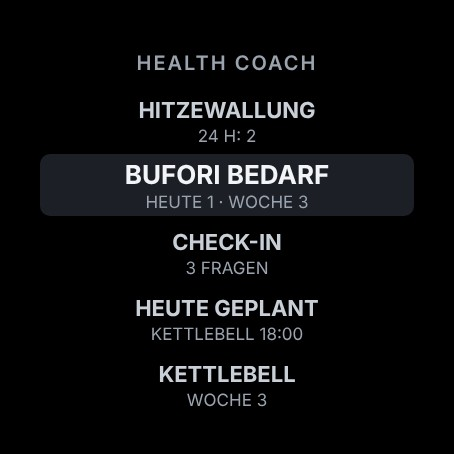
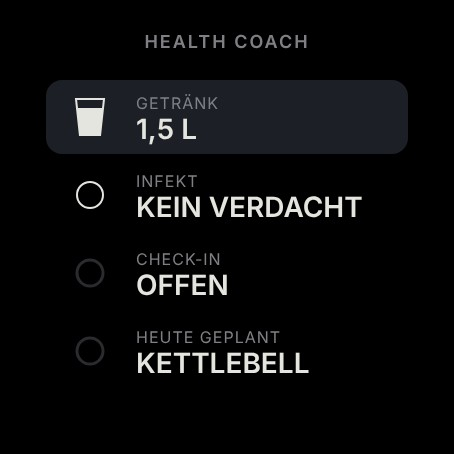
[DA][OF] Store-Bilder, Beschreibung, Übergabe und Aufgaben für die überarbeitete Uhr-App
Claude-Session: https://claude.ai/code/session_017zWr1WikVp35JDLSBfpPWt

diff --git a/watchface/tools/store_bilder.js b/watchface/tools/store_bilder.js
@@ -52,7 +52,7 @@ async function faceShots(page) {
   }
 }
 
-// Uhr-App: Glance in der Glance-Liste und das Menü, nachgezeichnet nach watch/source (GlanceView.mc, MainMenu.mc)
+// Uhr-App: Glance in der Glance-Liste und das Menü, nachgezeichnet nach watch/source (GlanceView.mc, MainView.mc, Icons.mc)
 function appHtml(which) {
   const seg = `
   function seg7(g, str, x, top, w, h, t, gap, on, off) {
@@ -87,25 +87,52 @@ function appHtml(which) {
     <script>${seg}
       seg7(document.getElementById("dg"), "18", 66, 162, 44, 72, 8, 10, "#E4E5DF", "#2A2B2F");
     </script>`;
-  const items = [["HITZEWALLUNG", "24 H: 2"], ["BUFORI BEDARF", "HEUTE 1 · WOCHE 3"], ["CHECK-IN", "3 FRAGEN"], ["HEUTE GEPLANT", "KETTLEBELL 18:00"], ["KETTLEBELL", "WOCHE 3"]];
+  // Zeichen wie in watch/source/Icons.mc: Glas mit Füllstand, Kreis, Ring, Tasse
+  const W = "#E4E5DF", M = "#7E8085", G = "#2A2B2F";
+  const glass = (cx, top, w, h, p) => {
+    const inset = w * 0.14, y = top + h * (1 - p), t = 1 - p;
+    const ht = w / 2 - inset * t, hb = w / 2 - inset;
+    const fill = p > 0 ? `<polygon points="${cx - ht},${y} ${cx + ht},${y} ${cx + hb},${top + h} ${cx - hb},${top + h}" fill="${W}"/>` : "";
+    return fill + `<polygon points="${cx - w / 2},${top} ${cx + w / 2},${top} ${cx + w / 2 - inset},${top + h} ${cx - w / 2 + inset},${top + h}" fill="none" stroke="${W}" stroke-width="2"/>`;
+  };
+  const ring = (cx, cy, r, p) => `<circle cx="${cx}" cy="${cy}" r="${r}" fill="none" stroke="${G}" stroke-width="3"/>` +
+    (p > 0 ? `<circle cx="${cx}" cy="${cy}" r="${r}" fill="none" stroke="${W}" stroke-width="3" stroke-dasharray="${2 * Math.PI * r * p} 999" transform="rotate(-90 ${cx} ${cy})"/>` : "");
+  const cup = (x, y, sz, on) => `<rect x="${x}" y="${y}" width="${sz}" height="${sz * 0.8}" fill="${on ? W : "none"}" stroke="${W}" stroke-width="2"/><rect x="${x + sz}" y="${y + sz * 0.15}" width="${sz * 0.28}" height="${sz * 0.4}" fill="none" stroke="${W}" stroke-width="2"/>`;
+  const F = 'font-family="Inter, Arial, sans-serif"';
+  const rows = [
+    ["GETRÄNK", "1,5 L", (cy) => glass(90, cy - 18, 28, 36, 0.75)],
+    ["INFEKT", "KEIN VERDACHT", (cy) => `<circle cx="90" cy="${cy}" r="13" fill="none" stroke="${W}" stroke-width="2"/>`],
+    ["CHECK-IN", "OFFEN", (cy) => ring(90, cy, 13, 0)],
+    ["HEUTE GEPLANT", "KETTLEBELL", (cy) => ring(90, cy, 13, 0)]
+  ];
   const menu = `
     <svg id="shot" viewBox="0 0 454 454" width="454" height="454">
       <circle cx="227" cy="227" r="227" fill="#000"/>
-      <text x="227" y="70" fill="#9AA3AE" font-family="Inter, Arial, sans-serif" font-weight="600" font-size="20" text-anchor="middle" letter-spacing="2">HEALTH COACH</text>
-      ${items.map((it, i) => {
-        const y = 118 + i * 66, sel = i === 1;
-        return `${sel ? `<rect x="40" y="${y - 30}" width="374" height="62" rx="10" fill="#1C2026"/>` : ""}
-          <text x="227" y="${y}" fill="${sel ? "#F2F4F7" : "#C9CFD6"}" font-family="Inter, Arial, sans-serif" font-weight="700" font-size="${sel ? 26 : 22}" text-anchor="middle">${it[0]}</text>
-          <text x="227" y="${y + 24}" fill="#9AA3AE" font-family="Inter, Arial, sans-serif" font-size="17" text-anchor="middle">${it[1]}</text>`;
+      <text x="227" y="48" fill="${M}" ${F} font-weight="600" font-size="18" text-anchor="middle" letter-spacing="2">HEALTH COACH</text>
+      ${rows.map((r, i) => {
+        const top = 78 + i * 78, cy = top + 39, sel = i === 0;
+        return `${sel ? `<rect x="46" y="${top + 2}" width="362" height="74" rx="16" fill="#1C2026"/>` : ""}${r[2](cy)}
+          <text x="136" y="${cy - 8}" fill="${M}" ${F} font-size="16" letter-spacing="1">${r[0]}</text>
+          <text x="136" y="${cy + 22}" fill="${W}" ${F} font-weight="600" font-size="28">${r[1]}</text>`;
       }).join("")}
+    </svg>`;
+  const drink = `
+    <svg id="shot" viewBox="0 0 454 454" width="454" height="454">
+      <circle cx="227" cy="227" r="227" fill="#000"/>
+      ${glass(227, 54, 90, 130, 0.75)}
+      <text x="227" y="262" fill="${W}" ${F} font-weight="600" font-size="44" text-anchor="middle">1,5 L</text>
+      <text x="227" y="296" fill="${M}" ${F} font-size="17" text-anchor="middle" letter-spacing="1">VON 2 L</text>
+      <rect x="154" y="320" width="146" height="1" fill="${G}"/>
+      ${cup(163, 340, 30, true)}${cup(227 - 15, 340, 30, true)}${cup(257, 340, 30, false)}
+      <text x="227" y="398" fill="${M}" ${F} font-size="17" text-anchor="middle" letter-spacing="1">KAFFEE 2</text>
     </svg>`;
   return `<!doctype html><meta charset="utf-8"><style>
     @font-face{font-family:"Share Tech Mono";src:url("${FONT}")}
-    body{margin:0;background:#000}</style>${which === "glance" ? glance : menu}`;
+    body{margin:0;background:#000}</style>${which === "glance" ? glance : which === "drink" ? drink : menu}`;
 }
 
 async function appShots(page) {
-  for (const [which, file] of [["glance", "1-glance.jpg"], ["menu", "2-menue.jpg"]]) {
+  for (const [which, file] of [["glance", "1-glance.jpg"], ["menu", "2-menue.jpg"], ["drink", "3-getraenk.jpg"]]) {
     await page.setContent(appHtml(which));
     await page.evaluate(() => document.fonts.load('20px "Share Tech Mono"'));
     await page.waitForTimeout(200);

diff --git a/docs/uebergabe/daten.md b/docs/uebergabe/daten.md
@@ -1,7 +1,15 @@
 # Übergabe · Daten (DA)
 Belegt: frei
-Zuletzt aktualisiert: 2026-11-26 · Sitzung: https://claude.ai/code/session_017zWr1VfNKhpHP9qnQvGq9p
+Zuletzt aktualisiert: 2026-11-28 · Sitzung: https://claude.ai/code/session_017zWr1WikVp35JDLSBfpPWt
 
+
+## Uhr-App überarbeitet, Getränke loggen (PR #198, 28.11., Freigabe der Nutzerin)
+- Migration `20261203090000_getraenke`: Tabelle `drink_log` (at, day, kind wasser/kaffee/tee/alkohol, amount, source), RLS. Trigger setzt die Tages-Haken `koffein_nach_14` (Kaffee ab 14:00 Berlin) und `alkohol` in `diary_entries.influences`, nimmt sie nur bei Ändern oder Löschen zurück. „Wenig getrunken“ bleibt Handeintrag. `push_subscriptions.drink_push`, `drink_sent_at`.
+- `watch`: Aktion `drink` (kind, amount), `today` liefert `infection` und `drinks` (Wasser, Ziel 2 L / 2,5 L an Trainingstagen aus `settings.data.waterGoal`/`waterGoalTraining`, Kaffee, Tee, Alkohol, `coffeeAt`, `last`). Aktionen `flash` und `intake` bleiben für ältere Uhr-Versionen.
+- `push` (`due`, alle 15 Min.): Erinnerung „Seit 3 Stunden nichts getrunken“ zwischen 8 und 20 Uhr, Anker = letztes Getränk, letzte Erinnerung oder 8:00.
+- Uhr-App (`watch/source`): `MainMenu.mc` ersetzt durch `MainView.mc` (Liste mit Zeichen), `DrinkViews.mc` (Stand mit Glas, Mengenwahl), `Icons.mc`. Hitzewallung und Bufori entfernt (Bufori-Einnahmen erscheinen nicht mehr), Infekt-Zeile, Check-in als pushView. Store-Bilder und Beschreibung neu.
+- Geprüft: Syntax der Funktionen (Transpile), `tsc`, `npm run build`. Ungeprüft: Monkey-C-Build (Lauf „Uhr-App bauen“ im PR), Darstellung auf der Uhr, Migration.
+- Wartet auf: Freigabe und Merge durch die Nutzerin, danach Läufe „Supabase-Migrationen ausführen“, „Supabase-Funktionen hochladen“ und „Uhr-App bauen“ (Paket `upload-uhr-app`).
 
 ## Datenraster eigenständig, Layout A und C (PR #188, 26.11., Freigabe der Nutzerin)
 - Anlass: Werte zu klein, Sonnenzeiten leer (nur Symbol, wirkte wie ein Kopf). Entwurf `Uhr-Datenraster-Lesbar` (Projekt-Dokument `claude/klickdummy-entwurf/Uhr-Datenraster-Lesbar.dc.html`, noch nicht im Klick-Dummy-Artefakt, keine Schreibrechte aus dem Projekt-Chat).

diff --git a/watch/store/beschreibung.md b/watch/store/beschreibung.md
@@ -9,14 +9,15 @@ Health Coach
 Geräte-App (Watch App) mit Glance
 
 ## Kurzbeschreibung
-Hitzewallungen, Einnahmen, Check-in und Kettlebell direkt an der Uhr erfassen.
+Getränke, Check-in und Kettlebell direkt an der Uhr erfassen.
 
 ## Beschreibung
 Die Uhr-App zur App Health Coach. Was du an der Uhr einträgst, landet sofort in deinem Tagebuch.
 
 - Glance: Tagesziel bisher, Zielbereich, was das Ziel heute senkt, und die nächste Einheit
-- Hitzewallung mit einem Tippen eintragen
-- Inhalator-Hübe (regelmäßig oder bei Bedarf) und Einnahmen abhaken
+- Getränke eintragen (Wasser, Kaffee, Tee, Alkohol) mit Glas, das sich füllt, und Uhrzeit für Koffein
+- Infektverdacht als Zeichen
+- Einnahmen abhaken
 - Morgen-Check-in mit drei Fragen
 - Heute geplant
 - Kettlebell-Timer mit Sätzen, Gewicht und Wiederholungen
@@ -24,12 +25,13 @@ Die Uhr-App zur App Health Coach. Was du an der Uhr einträgst, landet sofort in
 Die App braucht den Uhr-Schlüssel aus Health Coach (Einstellung „Uhr-Schlüssel“) und eine Verbindung zum Handy. Die Screenshots zeigen Beispieldaten.
 
 ## Neu in dieser Version
-Glance zeigt jetzt das Tagesziel bisher mit Zielbereich, die Abzüge des Tages und die nächste Einheit.
+Neues Menü mit Zeichen für den Zustand. Getränke mit Füllstand und Uhrzeit eintragen, Infektverdacht sichtbar. Hitzewallung und Bufori entfernt.
 
 ## Bilder
 - Store-Icon: `store-icon-500.png` (500 × 500, App-Symbol Ensō)
 - Screenshots in dieser Reihenfolge:
   1. `1-glance.jpg`: Glance in der Glance-Liste
   2. `2-menue.jpg`: Menü der App
+  3. `3-getraenk.jpg`: Getränke mit Füllstand
 
 Neu erzeugen: `node watchface/tools/store_bilder.js`

diff --git a/AUFGABEN.md b/AUFGABEN.md
@@ -7,6 +7,15 @@ Migrationen laufen ab jetzt automatisch: Nach dem Merge eines Pull Requests füh
 
 ## Jetzt
 
+### Uhr-App überarbeitet und Getränke loggen (PR #198, 28.11.)
+Enthält die Migration `supabase/migrations/20261203090000_getraenke.sql` (Tabelle `drink_log`, Haken aus dem Log, Schalter für die Trinkerinnerung) und geänderte Funktionen `watch` und `push`. Dein Merge ist die Freigabe.
+- [ ] PR #198 mergen, wenn der Lauf „Uhr-App bauen“ im PR grün ist
+- [ ] Läufe „Supabase-Migrationen ausführen“ und „Supabase-Funktionen hochladen“ prüfen
+- [ ] Actions › „Uhr-App bauen“ (Lauf auf `main`) › Artifact `upload-uhr-app` laden, `HealthCoach.iq` im Garmin-Entwicklerportal hochladen, Screenshots und Text ersetzen, nach der Freigabe auf der Uhr aktualisieren
+- [ ] Auf der Uhr: Getränk eintragen, erscheint es im Tagebuch? Bei Kaffee nach 14 Uhr: ist die Gewohnheit „Koffein nach 14 Uhr“ gesetzt?
+- [ ] Wasserziel prüfen (Einstellungen), Trinkerinnerung am Nachmittag testen
+- [ ] Bufori-Einnahmen gibt es auf der Uhr nicht mehr: bei Bedarf Bescheid geben
+
 ### Infektverdacht empfindlicher (Prüfaudit Stufe 3, 27.11.)
 Ändert die App und die Uhr-Funktion `watch`, keine Migration. Dein Merge ist die Freigabe, danach läuft „Supabase-Funktionen hochladen“.
 - [ ] PR mergen

diff --git a/docs/uebergabe/oberflaeche.md b/docs/uebergabe/oberflaeche.md
@@ -1,6 +1,10 @@
 # Übergabe · Oberfläche (OF)
 Belegt: frei
-Zuletzt aktualisiert: 2026-11-27 · Sitzung: https://claude.ai/code/session_017zWr1TvBzHgMpMzbCqZdWV
+Zuletzt aktualisiert: 2026-11-28 · Sitzung: https://claude.ai/code/session_017zWr1WikVp35JDLSBfpPWt
+
+## Getränke im Tagebuch (PR #198, 28.11., gemeinsam mit Daten)
+- `components/tagebuch/DrinkSection.tsx` (Tagebuch, vor den Einnahmen): Wasserstand gegen das Tagesziel, Schnelleinträge, Liste mit Uhrzeit zum Löschen, optionale Uhrzeit. Ziel 2 L, an Trainingstagen 2,5 L; Einstellungen › Funktionen & Gewohnheiten (`WaterGoalRows`). `lib/drinks.ts`. Schalter „Trinkerinnerung“ in `PushRows`. `drink_log` in der Sicherung.
+- Geprüft: `tsc`, `npm run build`. Nicht im Browser, Tabelle fehlt bis zur Migration (dann Fehlermeldung statt Liste).
 
 ## Koffein nach 14 Uhr (28.11., gemergt nach grünem Build)
 Gewohnheit `koffein_nach_14` ersetzt `koffein`. Alter Schlüssel bleibt als „Koffein (früher)“ lesbar, ist in der Liste aus und zählt in Korridor und „Dein Monat“ nicht mehr (`LEGACY_HABIT_KEYS`). Keine Migration.
